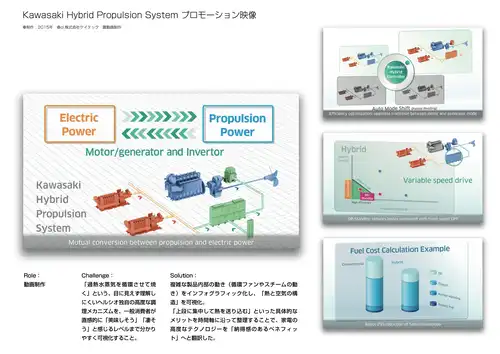
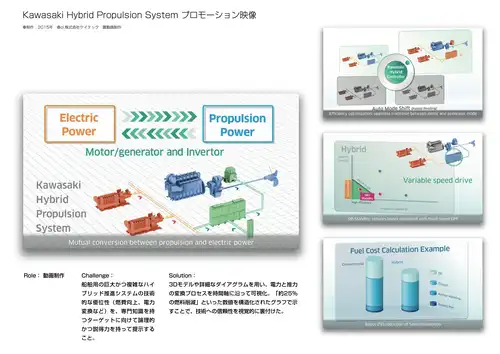
modified

Changed region(s): [[0.15, 0.7768, 0.6, 0.9633], [0.03, 0.7458, 0.12, 0.8079]]

diff --git a/src/data/works.js b/src/data/works.js
@@ -2,6 +2,7 @@ export const works = [
   {
     id: 1,
     title: "テレメール全国一斉進学調査　アンケートサイト",
+    category: ["web", "frontend", "ux-design"],
     title_caption:
       "大学受験生向けアンケートの入力体験を改善するWebアプリ設計・実装案件",
     detail:
@@ -10,6 +11,7 @@ export const works = [
   {
     id: 2,
     title: "夢ナビTALKサイト",
+    category: ["web", "design", "oparation"],
     title_caption: "デザイン制作、プロトタイプコーディング、運用・更新。",
     detail:
       "■案件概要\n・デザイン制作、プロトタイプコーディング、運用・更新を担当\n長期利用に耐えるシンプルで飽きのこないデザイン設計。\n・YouTubeやJstreamなどの動画コンテンツをWeb上で快適に閲覧できるUIの工夫。\n・大学個別ページなど、フロムページ社独自仕様に対応したHTML/CSS/JSのフロントエンド共通構成の設計・実装。\n・社内エンジニアおよび外部ベンダーとの連携・調整を実施。\n・イベント当日の運営にも携わり、進行管理、関係部署、撮影業社、編集業社、大学担当との連携を行い、円滑なイベント実施、コンテンツ更新に貢献",
@@ -17,6 +19,7 @@ export const works = [
   {
     id: 3,
     title: " 夢ナビライブ特設サイト",
+    category: ["web", "frontend", "oparation", "direction"],
     title_caption: "進学イベント「夢ナビライブ」イベントサイトの構築・運用",
     detail:
       "■案件概要\nフロムページ社主催の進学イベント「夢ナビライブ」のイベントサイトの構築・運用・更新業務を担当（デザインは別部署と連携）\n・PHP / CSS / JavaScript を用い、CSVによるデータ管理を導入し、短期間での情報更新に対応可能な構成を設計、動画ポップアップ表示、イイベント開催期間に応じた表示制御を実装し、迅速な更新が可能なサイト設計およびレスポンシブ対応を実施\n・データベースやAPI連携などのシステム領域については、社内エンジニアと連携しながら調整・対応\n・資料請求ページにおいて検索機能の実装を担当\n・CDN（Akamai）を用いたキャッシュクリア対応を行い、表示不整合や更新遅延の解消に対応\n・オンラインイベント当日の運営にも携わり、コンテンツ更新、進行管理、関係部署との連携を行い、円滑なイベント実施に貢献",
@@ -24,6 +27,7 @@ export const works = [
   {
     id: 4,
     title: "テレメール進学サイト",
+    category: ["web", "frontend", "oparation"],
     title_caption: "リニューアル構築,コーディング、運用、更新",
     detail:
       "■担当範囲\n・高校生向け受験準備・資料請求サービスを提供するフロムページ社メインサイトにて、コーディング、運用、更新業務を担当（デザインは別部署と連携）\n・PC版とスマホ版が別ページとして存在していたトップページ他のリニューアル・レスポンシブ化を担当（2022年）\n・大規模サイト構成のため、既存ページへの影響を最小限に抑えたメニュー更新および運用改善を実施\n・HTML（PHP）/ CSS / JavaScript の構造整理を行い、保守性向上および表示速度の改善に貢献\n・サイト掲載用バナーの作成・更新・運用を担当\n・データベース等のシステム関連領域については、社内エンジニアと連携しながら調整・対応\n・既存構成を維持しつつ段階的に改善を行い、運用負荷軽減と安定したサイト運営に寄与",
@@ -31,6 +35,7 @@ export const works = [
   {
     id: 5,
     title: "テレメール全国一斉進学調査",
+    category: ["web", "frontend"],
     title_caption: "ランディングページ/調査結果コンテンツページ",
     detail:
       "■担当範囲\n・高校生向け受験準備・資料請求サービスを提供するフロムページ社メインサイトにて、コーディング、運用、更新業務を担当（デザインは別部署と連携）\n・PC版とスマホ版が別ページとして存在していたトップページ他のリニューアル・レスポンシブ化を担当（2022年）\n・大規模サイト構成のため、既存ページへの影響を最小限に抑えたメニュー更新および運用改善を実施\n・HTML（PHP）/ CSS / JavaScript の構造整理を行い、保守性向上および表示速度の改善に貢献\n・サイト掲載用バナーの作成・更新・運用を担当\n・データベース等のシステム関連領域については、社内エンジニアと連携しながら調整・対応\n・既存構成を維持しつつ段階的に改善を行い、運用負荷軽減と安定したサイト運営に寄与",
@@ -38,6 +43,7 @@ export const works = [
   {
     id: 6,
     title: "テレメール進学サイト カタログ連動コンテンツ",
+    category: ["web", "frontend", "ux-design"],
     title_caption:
       "（テレメール進学カタログ　SELF BRAND／大学受験 いざ、挑戦／新学年スタート号　 各連動サイト）",
     detail:
@@ -46,6 +52,7 @@ export const works = [
   {
     id: 7,
     title: " テレメール進学サイトコンテンツ　大学パンフレット紹介動画ページ ",
+    category: ["web", "frontend", "oparation", "direction"],
     title_caption: "Youtube連動コンテンツの構築、運用、更新",
     detail:
       "■担当範囲\n・高校生向け受験準備・資料請求サービスを提供するフロムページ社メインサイト内コンテンツにおいて、コロナ禍により実地イベントが制限される中、大学パンフレットの代替的な情報提供・PRを目的とした動画紹介ページの構築・運用を担当\n・YouTube動画をページ内でシームレスに再生できるUIを、PHP / CSS / JavaScriptによりレスポンシブ対応で実装（社内エンジニアと協業）\n・一覧からの動画選択〜再生までの導線設計を行い、ユーザーが離脱せず閲覧できる構成を設計\n・検索UIについては社内デザイナーと共同で検討し、カテゴリ・条件による絞り込み機能を実装\n・デザインは他部署と連携しつつ、実装観点からの改善提案も実施\n・コンテンツ更新においては、PHPおよびCSVによるデータ管理構造を設計し、短期間での大量更新に対応可能な運用基盤を構築\n・YouTube APIと連携し、jQueryを用いた非同期処理により動画の動的表示・再生制御を実装。動画一覧からの選択〜再生までをシームレスに行えるUIを構築し、UX向上に寄与",
@@ -53,6 +60,7 @@ export const works = [
   {
     id: 8,
     title: "株式会社フロムページ　コーポレートサイト",
+    category: ["web", "frontend", "oparation"],
     title_caption:
       "ブラックボックス化されたフロントエンド構成の機能追加・改善実施・運用業務",
     detail:
@@ -61,6 +69,7 @@ export const works = [
   {
     id: 9,
     title: "夢ナビ講義動画サービス プロモーションLP",
+    category: ["web", "frontend", "oparation"],
     title_caption:
       "フロムページ社の高校生対象の動画視聴サービス「夢ナビ講義動画サービス」プロモーションページ",
     detail:
@@ -69,6 +78,7 @@ export const works = [
   {
     id: 10,
     title: "Ocans PR サイト",
+    category: ["web", "frontend"],
     title_caption:
       "フロムページ社の大学オープンキャンパス支援システム「Ocans」プロモーションページ",
     detail:
@@ -77,6 +87,7 @@ export const works = [
   {
     id: 11,
     title: "SDGs 17ゴール解説",
+    category: ["web", "frontend", "direction"],
     title_caption: "PHP × CSV 動的生成",
     detail:
       "■担当範囲\n・フロムページ社の展開する「夢ナビ」各種サイトの「SDGs検索」の解説リンクページを、社内デザイナーと密に連携し、各検索サービスから誘導される特設解説ページの実装を担当。\n・デザインの再現性と最適化:デザイナーが意図した余白やフォントの可読性、アイコンの配置を、Webブラウザ上で最適なバランスになるよう、実装段階で細部まで詰めを行った。\n・レスポンシブへの配慮: 多様なデバイスでの閲覧を想定し、17個のアイコンや解説文がどの画面サイズでも美しく整理されるよう、柔軟なコーディングを実践。\n・情報のアクセシビリティ: 多くのユーザーが目にするコンテンツとして、情報の優先順位が明確に伝わる構造を意識。\n【課題解決のアプローチ】\n・本コンテンツは17のゴールごとに膨大なテキストと画像が存在し、従来の静的HTML管理では納期や更新コストが課題となっていました。そこで、「誰でも迅速に更新・展開できる仕組み」を独自に設計。\n【テクニカル・ポイント】\n・CSVベースのコンテンツ管理 : テキストデータをCSVで管理し、PHPのURLクエリに基づいて動的に内容を流し込む仕組みを構築。\n・運用の高速化 : HTMLの知識がなくても、CSVの書き換えだけで画像や内容の差し替えを完結させ、納期の大幅な短縮と運用ミスの低減を実現。\n・デザインの一貫性保持 : 共通テンプレートをPHPで制御することで、17ページすべてのレイアウトとブランドイメージを完璧に統一。",
@@ -84,6 +95,7 @@ export const works = [
   {
     id: 12,
     title: "テレメール進学サイトコンテンツ ギモン学問",
+    category: ["web", "frontend", "direction"],
     title_caption:
       "フロントエンド実装 / UI設計・調整（デザイナー・エンジニアとの橋渡し）",
     detail:
@@ -92,6 +104,7 @@ export const works = [
   {
     id: 13,
     title: "メールマガジンコーディング・運用",
+    category: ["direction", "operation"],
     title_caption:
       "デザインの品質を維持しつつ実装速度を最大化する制作フレームワーク（テンプレート・フォーマット）を構築",
     detail: "",
@@ -99,6 +112,7 @@ export const works = [
   {
     id: 14,
     title: "テレメール進学サイトコンテンツ 受験スケジュールを立てよう",
+    category: ["web", "frontend"],
     title_caption:
       "受験生が併願校の受験日程を一元管理・比較できる「受験スケジュール表示機能」のUI設計・プロトタイプ構築",
     detail: "",
@@ -106,60 +120,70 @@ export const works = [
   {
     id: 15,
     title: " 高校アプローチ管理システム",
+    category: ["web", "frontend", "direction"],
     title_caption: "WebアプリUI、モックアップ構築",
     detail: "",
   },
   {
     id: 16,
     title: "ユニットバスカタログ",
+    category: ["visual", "B2B"],
     title_caption: "アートディレクション / デザイン",
     detail: "",
   },
   {
     id: 17,
     title: "ユニットバス施行手順書",
+    category: ["visual", "B2B"],
     title_caption: "ディレクション・エディトリアルデザイン・パースイラスト作成",
     detail: "",
   },
   {
     id: 18,
     title: "企業設備商品案内パンフレット",
+    category: ["visual", "B2B"],
     title_caption: "アートディレクション / デザイン",
     detail: "",
   },
   {
     id: 19,
     title: "企業Webサイト（明瞭期）",
+    category: ["web", "design", "frontend", "B2B"],
     title_caption: "Webデザイン・制作（HTML/Flash）",
     detail: "",
   },
   {
     id: 20,
     title: "企業保険組合季刊誌",
+    category: ["visual", "B2B"],
     title_caption: "エディトリアルデザイン /イラストディレクション",
     detail: "",
   },
   {
     id: 21,
     title: "教育出版　中学国語教科書",
+    category: ["visual", "B2B"],
     title_caption: "紙面レイアウト・DTP",
     detail: "",
   },
   {
     id: 22,
     title: "2009 FFCC ルセットブック　グランシェフのエスプリ",
+    category: ["visual"],
     title_caption: "エディトリアルデザイン",
     detail: "",
   },
   {
     id: 23,
     title: "企業社内報",
+    category: ["visual", "B2B"],
     title_caption: "アートディレクション・エディトリアルデザイン",
     detail: "",
   },
   {
     id: 24,
     title: "ドコモゼミ対応 「出るナビ」",
+    category: ["ux-design", "frontend", "B2B"],
     title_caption:
       "UI/UXデザイン・オーサリング（Adobe Air for Android/iOSを用いたプログラミング）",
     detail: "",
@@ -167,6 +191,7 @@ export const works = [
   {
     id: 25,
     title: "高校入試ランク順アプリ",
+    category: ["ux-design", "frontend", "B2B"],
     title_caption:
       "UI/UXデザイン・オーサリング（Adobe Air for Android/iOSを用いたプログラミング）",
     detail: "",
@@ -174,6 +199,7 @@ export const works = [
   {
     id: 26,
     title: "中学入試一問一答 反復プリント作成ソフト",
+    category: ["ux-design", "frontend", "B2B"],
     title_caption:
       "UI/UXデザイン・オーサリング（Adobe Air for Android/iOSを用いたプログラミング）",
     detail: "",
@@ -181,12 +207,14 @@ export const works = [
   {
     id: 27,
     title: "CoNETS デジタル教科書 UI 制作",
+    category: ["ux-design", "B2B"],
     title_caption: "UIデザイン",
     detail: "",
   },
   {
     id: 28,
     title: "大日本図書 中学理科 デジタル教科書 コンテンツ制作",
+    category: ["ux-design", "frontend", "B2B"],
     title_caption:
       "UIデザイン、コーディング、プログラム実装（HTML5/JavaScript）",
     detail: "",
@@ -194,24 +222,28 @@ export const works = [
   {
     id: 29,
     title: "大日本図書 中学理科 デジタル教科書 コンテンツ制作",
+    category: ["ux-design", "frontend", "B2B"],
     title_caption: "UIデザイン",
     detail: "",
   },
   {
     id: 30,
     title: "シャープ　 LEDシーリングライト webサイト",
+    category: ["web", "frontend", "B2B"],
     title_caption: "Webデザイン、制作",
     detail: "",
   },
   {
     id: 31,
     title: "シャープ　 ブルーレイ webサイト",
+    category: ["web", "frontend", "B2B"],
     title_caption: "Webデザイン、制作",
     detail: "",
   },
   {
     id: 32,
     title: "シャープ　 COCOROBO webサイト トップページギミック",
+    category: ["web", "frontend", "B2B"],
     title_caption:
       "デザイン、コーディング、プログラミング（HTML5 CANVAS / Flash）",
     detail: "",
@@ -219,18 +251,21 @@ export const works = [
   {
     id: 33,
     title: "3ドライブハイパワーエンジン紹介動画／ヘルシオ：シャープ",
+    category: ["movie", "B2B"],
     title_caption: "動画制作",
     detail: "",
   },
   {
     id: 34,
     title: "シャープの教育ソリューション「BIG PAD + STUDY SERIES」2016篇",
+    category: ["movie", "B2B"],
     title_caption: "動画制作",
     detail: "",
   },
   {
     id: 35,
     title: "Kawasaki Hybrid Propulsion System プロモーション映像",
+    category: ["movie", "B2B"],
     title_caption: "動画制作",
     detail: "",
   },